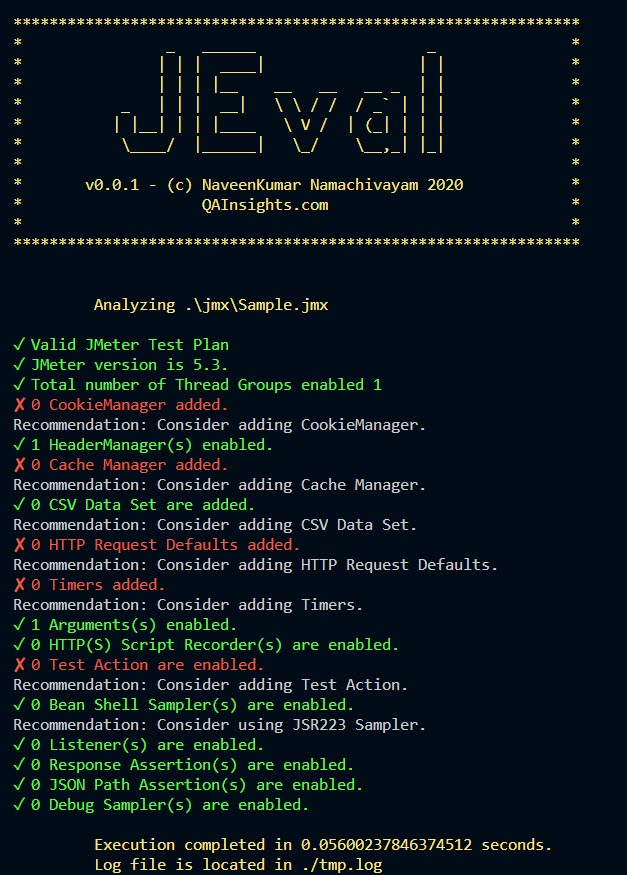
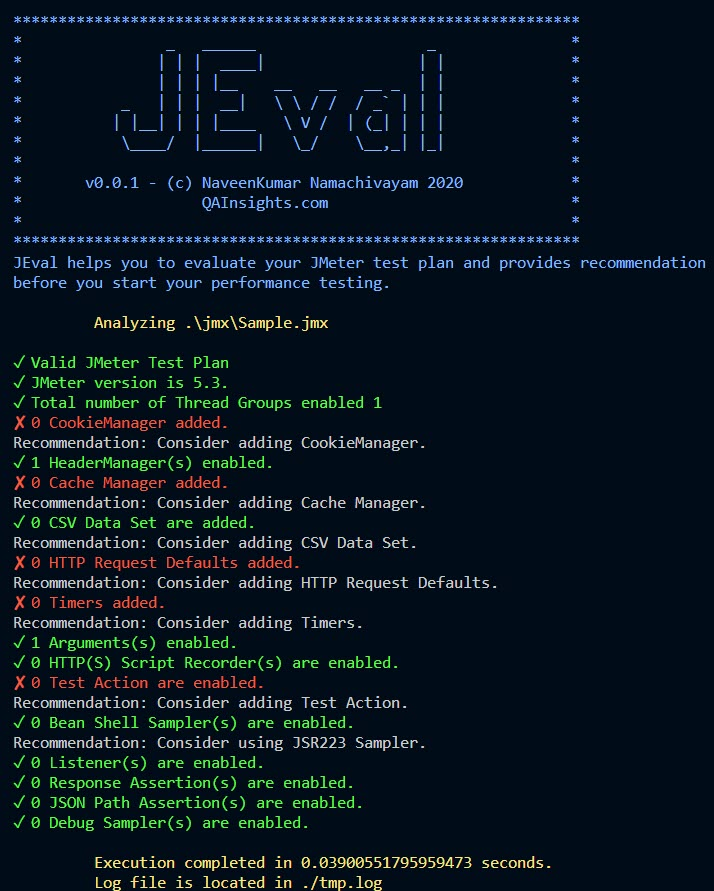
✨ Releasing v0.0.1

diff --git a/jmx.py b/jmx.py
@@ -14,7 +14,7 @@ def parseJMX(jmx):
 
 def printArt():
     print("""
-\033[93m 
+\033[94m 
 ***************************************************************
 *                _   ______                   _               *
 *               | | |  ____|                 | |              * 
@@ -27,10 +27,12 @@ def printArt():
 *                    QAInsights.com                           *
 *                                                             *  
 ***************************************************************
+JEval helps you to evaluate your JMeter test plan and provides recommendation 
+before you start your performance testing.
   """)
 
 def printFileName(jmx):
-    print(f"\033[93m \n\t Analyzing {jmx} \n")    
+    print(f"\033[93m \t Analyzing {jmx} \n")    
     return
 
 def cleanup():

diff --git a/README.md b/README.md
@@ -31,7 +31,7 @@ JEval helps you to evaluate your JMeter test plan and provides recommendation be
 `pip install -r requirements.txt`
 
 **Important Notes**  
-* *JEval doesn't make any modifications to your JMeter test plan. But it is advisable to make a backup of your JMeter test plan.*
+* *JEval doesn't make any modifications to your JMeter test plan. But it is advisable to make a backup of your JMeter test plan.*  
 * *JEval utility doesn't collect any sort of data*
 
 # ✨ Usage
